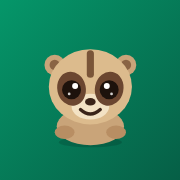
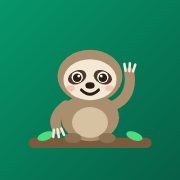
Rename to Slothly with a five-pose sloth mascot
Replace the slow loris with a three-toed sloth and give each state its own
silhouette instead of one pose with swapped faces: sitting and waving
(happy), hanging from a branch and swaying (sleepy), arms up with sparkles
(cheer), hunched hugging its belly (worried), and lying on its back with a
round belly (full). Going over the day's target now shows the relaxed
"full" pose rather than a worried face. Motion stays CSS-only and respects
reduced-motion.

App name becomes Slothly (manifest, titles, login wordmark, README and
roadmap) with the slogan "sehat pelan-pelan, tanpa drama"; the repository
and package keep their existing names. App icons are regenerated from the
new mascot.

Claude-Session: https://claude.ai/code/session_01GSTUc4y33HefHtL2NRX4h9

Changed region(s): [[0.1389, 0.25, 0.8611, 0.8333]]

diff --git a/components/Mascot.tsx b/components/Mascot.tsx
@@ -1,97 +1,221 @@
-export type MascotMood = "happy" | "neutral" | "worried" | "cheer";
+export type MascotMood = "happy" | "neutral" | "worried" | "cheer" | "full";
 
-const PATCH = "#6b4630";
-const INK = "#3a2418";
+const FUR = "#a98f6e";
+const FUR_D = "#8c7354";
+const BELLY = "#d6c2a0";
+const FACE = "#f2e8d3";
+const MASK = "#4b392c";
+const INK = "#2b1d14";
+const CLAW = "#f1e9d6";
+const BRANCH = "#7b5b3b";
+const LEAF = "#4ade80";
 
-// Placeholder mascot: a slow loris (kukang) — "pelan tapi pasti". Everything
-// is drawn here, so swapping in final artwork only means replacing this file.
-// neutral = sleepy, the loris' resting face.
-export default function Mascot({
-  mood = "happy",
-  className,
-}: {
-  mood?: MascotMood;
-  className?: string;
-}) {
-  const eye = (cx: number) => {
+// Placeholder mascot: a three-toed sloth, drawn so each state has its own
+// silhouette (sitting, hanging, arms-up, hunched, lying on its back) rather
+// than one pose with a swapped face. Swapping in final artwork only means
+// replacing this file.
+
+function Claws({ x, y, angle }: { x: number; y: number; angle: number }) {
+  return (
+    <g transform={`translate(${x} ${y}) rotate(${angle})`}>
+      <path d="M-2.2 0 L-3.2 -4 M0 0 L0 -4.6 M2.2 0 L3.2 -4" fill="none" stroke={CLAW} strokeWidth="1.5" strokeLinecap="round" />
+    </g>
+  );
+}
+
+function Arm({ d, width = 6 }: { d: string; width?: number }) {
+  return <path d={d} fill="none" stroke={FUR} strokeWidth={width} strokeLinecap="round" />;
+}
+
+function Branch({ y }: { y: number }) {
+  return (
+    <g>
+      <rect x="4" y={y} width="72" height="6" rx="3" fill={BRANCH} />
+      <ellipse cx="14" cy={y - 1} rx="5" ry="2.4" transform={`rotate(-20 14 ${y - 1})`} fill={LEAF} />
+      <ellipse cx="66" cy={y - 1} rx="5" ry="2.4" transform={`rotate(20 66 ${y - 1})`} fill={LEAF} />
+    </g>
+  );
+}
+
+function Head({ mood, x, y, tilt = 0, scale = 1 }: { mood: MascotMood; x: number; y: number; tilt?: number; scale?: number }) {
+  const closed = mood === "neutral" || mood === "full";
+  const eyes = (side: -1 | 1) => {
+    const cx = 7.5 * side;
     if (mood === "cheer") {
-      return (
-        <path
-          d={`M${cx - 4} 34.5 Q${cx} 29.5 ${cx + 4} 34.5`}
-          fill="none"
-          stroke="#fdf0d8"
-          strokeWidth="2.2"
-          strokeLinecap="round"
-        />
-      );
+      return <path key={side} d={`M${cx - 3.6} 1.6 Q${cx} -2.6 ${cx + 3.6} 1.6`} fill="none" stroke={FACE} strokeWidth="2" strokeLinecap="round" />;
     }
-    const hx = cx + (cx < 32 ? 1.8 : -1.2);
+    if (closed) {
+      return <path key={side} d={`M${cx - 3.6} 0.2 Q${cx} 3.4 ${cx + 3.6} 0.2`} fill="none" stroke={FACE} strokeWidth="1.9" strokeLinecap="round" />;
+    }
+    const r = mood === "worried" ? 2.1 : 2.5;
     return (
-      <g>
-        <circle cx={cx} cy="33.5" r="4.8" fill="#1d120c" />
-        <circle cx={hx} cy="31.6" r="1.5" fill="#fff" />
-        <circle cx={cx + (cx < 32 ? -1.2 : 1.2)} cy="35.6" r="0.7" fill="#fff" opacity="0.8" />
-        {mood === "neutral" && (
-          <path d={`M${cx - 5.2} 33.6 A5.2 5.2 0 0 1 ${cx + 5.2} 33.6 Z`} fill={PATCH} />
-        )}
+      <g key={side}>
+        <circle cx={cx} cy="0.6" r="3.3" fill="#fff8e7" />
+        <circle cx={cx} cy="0.9" r={r} fill={INK} />
+        <circle cx={cx + 0.9 * side * -1} cy="-0.1" r="0.8" fill="#fff" />
       </g>
     );
   };
 
   const mouth =
     mood === "cheer" ? (
-      <path d="M27 43 Q32 52 37 43 Z" fill="#7a2e2e" />
+      <path d="M-5.5 7.5 Q0 15 5.5 7.5 Z" fill="#7a2e2e" />
     ) : mood === "worried" ? (
-      <path d="M27.5 46 Q32 42 36.5 46" fill="none" stroke={INK} strokeWidth="1.7" strokeLinecap="round" />
+      <path d="M-4 10.5 Q0 7 4 10.5" fill="none" stroke={INK} strokeWidth="1.6" strokeLinecap="round" />
+    ) : mood === "full" ? (
+      <path d="M-6 8 Q0 14 6 8" fill="none" stroke={INK} strokeWidth="1.7" strokeLinecap="round" />
     ) : mood === "neutral" ? (
-      <path d="M29 44 H35" fill="none" stroke={INK} strokeWidth="1.7" strokeLinecap="round" />
+      <path d="M-3.5 9 Q0 11 3.5 9" fill="none" stroke={INK} strokeWidth="1.6" strokeLinecap="round" />
     ) : (
-      <path d="M27 43.5 Q32 48 37 43.5" fill="none" stroke={INK} strokeWidth="1.7" strokeLinecap="round" />
+      <path d="M-5 8 Q0 13 5 8" fill="none" stroke={INK} strokeWidth="1.7" strokeLinecap="round" />
     );
 
-  const label = { happy: "senang", neutral: "mengantuk", worried: "khawatir", cheer: "bersorak" }[mood];
-
   return (
-    <svg viewBox="0 0 64 64" className={className} role="img" aria-label={`Maskot kukang ${label}`}>
-      <ellipse cx="32" cy="60" rx="16" ry="2.6" fill="rgba(0,0,0,0.14)" />
-      <g className={mood === "cheer" ? "mascot-bounce" : undefined}>
-      <g className={`mascot-breathe${mood === "neutral" ? " mascot-slow" : ""}`}>
-      <ellipse cx="32" cy="52" rx="17" ry="9.5" fill="#c9a479" />
-      <ellipse cx="19" cy="55" rx="5" ry="3.4" fill="#b88e63" />
-      <ellipse cx="45" cy="55" rx="5" ry="3.4" fill="#b88e63" />
-      <g className="mascot-ear mascot-ear-l">
-        <circle cx="14" cy="21" r="5.2" fill="#c9a479" />
-        <circle cx="14" cy="21" r="2.6" fill="#8a6444" />
-      </g>
-      <g className="mascot-ear mascot-ear-r">
-        <circle cx="50" cy="21" r="5.2" fill="#c9a479" />
-        <circle cx="50" cy="21" r="2.6" fill="#8a6444" />
-      </g>
-      <ellipse cx="32" cy="32" rx="21" ry="19" fill="#dcbb8d" />
-      <rect x="30.2" y="13.5" width="3.6" height="14" rx="1.8" fill="#7a5538" />
-      <ellipse cx="32" cy="42" rx="9.5" ry="6.5" fill="#f3e2c4" />
-      <ellipse cx="22.5" cy="33" rx="7.2" ry="8.6" transform="rotate(-12 22.5 33)" fill={PATCH} />
-      <ellipse cx="41.5" cy="33" rx="7.2" ry="8.6" transform="rotate(12 41.5 33)" fill={PATCH} />
+    <g transform={`translate(${x} ${y}) rotate(${tilt}) scale(${scale})`}>
+      <ellipse rx="19" ry="15.5" fill={FUR} />
+      <ellipse cy="2" rx="15.5" ry="12" fill={FACE} />
+      <ellipse cx="-7.5" cy="0.6" rx="5.6" ry="3.9" transform="rotate(-25 -7.5 0.6)" fill={MASK} />
+      <ellipse cx="7.5" cy="0.6" rx="5.6" ry="3.9" transform="rotate(25 7.5 0.6)" fill={MASK} />
       <g className={mood === "happy" || mood === "worried" ? "mascot-blink" : undefined}>
-        {eye(22.5)}
-        {eye(41.5)}
+        {eyes(-1)}
+        {eyes(1)}
       </g>
       {mood === "worried" && (
         <g fill="none" stroke={INK} strokeWidth="1.8" strokeLinecap="round">
-          <path d="M16.5 25.5 L26 22.5" />
-          <path d="M47.5 25.5 L38 22.5" />
+          <path d="M-12 -6.5 L-4.5 -9" />
+          <path d="M12 -6.5 L4.5 -9" />
         </g>
       )}
-      <ellipse cx="32" cy="39.6" rx="2.7" ry="1.9" fill={INK} />
+      <ellipse cy="5.4" rx="2.7" ry="1.9" fill={INK} />
       {mouth}
-      {mood === "worried" && <path className="mascot-drop" d="M53 29 Q56 34 53 37 Q50 34 53 29 Z" fill="#7dd3fc" />}
-      </g>
-      {mood === "neutral" && (
-        <text className="mascot-zzz" x="50" y="12" fontSize="9" fontWeight="700" fill="#ffffff">
-          z
-        </text>
+      {(mood === "happy" || mood === "cheer" || mood === "full") && (
+        <g fill="#f4a9a0" opacity="0.55">
+          <ellipse cx="-11.5" cy="7" rx="2.6" ry="1.7" />
+          <ellipse cx="11.5" cy="7" rx="2.6" ry="1.7" />
+        </g>
       )}
-      </g>
+    </g>
+  );
+}
+
+function Sparkle({ x, y, s = 1, delay = 0 }: { x: number; y: number; s?: number; delay?: number }) {
+  return (
+    <path
+      className="mascot-twinkle"
+      style={{ animationDelay: `${delay}s` }}
+      transform={`translate(${x} ${y}) scale(${s})`}
+      d="M0 -4 L1.2 -1.2 L4 0 L1.2 1.2 L0 4 L-1.2 1.2 L-4 0 L-1.2 -1.2 Z"
+      fill="#fde68a"
+    />
+  );
+}
+
+export default function Mascot({ mood = "happy", className }: { mood?: MascotMood; className?: string }) {
+  const label = { happy: "senang", neutral: "mengantuk", worried: "khawatir", cheer: "bersorak", full: "kenyang" }[mood];
+
+  let pose: React.ReactNode;
+  if (mood === "neutral") {
+    // Hanging from a branch, swaying, asleep.
+    pose = (
+      <>
+        <Branch y={5} />
+        <g className="mascot-sway">
+          <Arm d="M31 41 Q22 24 27 10" />
+          <Arm d="M49 41 Q58 24 53 10" />
+          <Claws x={27} y={9} angle={-8} />
+          <Claws x={53} y={9} angle={8} />
+          <ellipse cx="33" cy="66" rx="4" ry="6.5" fill={FUR_D} />
+          <ellipse cx="47" cy="66" rx="4" ry="6.5" fill={FUR_D} />
+          <Claws x={33} y={71} angle={180} />
+          <Claws x={47} y={71} angle={180} />
+          <g className="mascot-breathe">
+            <ellipse cx="40" cy="53" rx="15" ry="13.5" fill={FUR} />
+            <ellipse cx="40" cy="56" rx="9" ry="8" fill={BELLY} />
+          </g>
+          <Head mood={mood} x={40} y={35} />
+          <text className="mascot-zzz" x="60" y="26" fontSize="9" fontWeight="700" fill="#ffffff">z</text>
+        </g>
+      </>
+    );
+  } else if (mood === "full") {
+    // Lying on its back with a round belly, a leaf on top.
+    pose = (
+      <>
+        <rect x="4" y="68" width="72" height="6" rx="3" fill={BRANCH} />
+        <ellipse cx="44" cy="58" rx="27" ry="12.5" fill={FUR} />
+        <g className="mascot-belly">
+          <ellipse cx="46" cy="52" rx="19" ry="11" fill={BELLY} />
+          <ellipse cx="52" cy="46" rx="6.5" ry="2.8" transform="rotate(-25 52 46)" fill={LEAF} />
+        </g>
+        <Arm d="M27 56 Q33 44 44 46" width={5.5} />
+        <Arm d="M60 57 Q56 46 46 47" width={5.5} />
+        <ellipse cx="68" cy="52" rx="4" ry="8" transform="rotate(-25 68 52)" fill={FUR_D} />
+        <ellipse cx="73" cy="59" rx="3.6" ry="7" transform="rotate(-50 73 59)" fill={FUR_D} />
+        <Head mood={mood} x={17} y={52} tilt={-14} scale={0.88} />
+      </>
+    );
+  } else if (mood === "cheer") {
+    pose = (
+      <>
+        <Branch y={69} />
+        <g className="mascot-bounce">
+          <Arm d="M28 49 Q12 40 14 20" />
+          <Arm d="M52 49 Q68 40 66 20" />
+          <Claws x={14} y={18} angle={-6} />
+          <Claws x={66} y={18} angle={6} />
+          <ellipse cx="40" cy="57" rx="17" ry="14" fill={FUR} />
+          <ellipse cx="40" cy="60" rx="10.5" ry="9" fill={BELLY} />
+          <ellipse cx="30" cy="69" rx="5" ry="3" fill={FUR_D} />
+          <ellipse cx="50" cy="69" rx="5" ry="3" fill={FUR_D} />
+          <Head mood={mood} x={40} y={33} />
+          <Sparkle x={6} y={34} s={1.1} />
+          <Sparkle x={74} y={36} s={0.9} delay={0.4} />
+          <Sparkle x={40} y={7} s={0.8} delay={0.8} />
+        </g>
+      </>
+    );
+  } else if (mood === "worried") {
+    // Hunched, arms wrapped around its belly, head tilted.
+    pose = (
+      <>
+        <Branch y={69} />
+        <g className="mascot-breathe">
+          <ellipse cx="40" cy="58" rx="18" ry="13.5" fill={FUR} />
+          <ellipse cx="40" cy="61" rx="11" ry="8.5" fill={BELLY} />
+          <ellipse cx="30" cy="69" rx="5" ry="3" fill={FUR_D} />
+          <ellipse cx="50" cy="69" rx="5" ry="3" fill={FUR_D} />
+          <Arm d="M25 50 Q34 64 49 58" />
+          <Arm d="M55 50 Q46 64 31 58" />
+          <Head mood={mood} x={40} y={36} tilt={-7} />
+          <path className="mascot-drop" d="M57 25 Q60.5 31 57 34 Q53.5 31 57 25 Z" fill="#7dd3fc" />
+        </g>
+      </>
+    );
+  } else {
+    // Sitting on a branch, waving.
+    pose = (
+      <>
+        <Branch y={69} />
+        <g className="mascot-breathe">
+          <ellipse cx="40" cy="57" rx="17" ry="14" fill={FUR} />
+          <ellipse cx="40" cy="60" rx="10.5" ry="9" fill={BELLY} />
+          <ellipse cx="30" cy="69" rx="5" ry="3" fill={FUR_D} />
+          <ellipse cx="50" cy="69" rx="5" ry="3" fill={FUR_D} />
+          <Arm d="M26 50 Q17 57 21 64" />
+          <Claws x={21} y={64} angle={170} />
+          <Head mood={mood} x={40} y={33} />
+          <g className="mascot-wave">
+            <Arm d="M54 50 Q65 45 63 31" />
+            <Claws x={63} y={30} angle={4} />
+          </g>
+        </g>
+      </>
+    );
+  }
+
+  return (
+    <svg viewBox="0 0 80 80" className={className} role="img" aria-label={`Maskot sloth ${label}`}>
+      {pose}
     </svg>
   );
 }

diff --git a/app/globals.css b/app/globals.css
@@ -94,3 +94,16 @@ button {
 @layer base {
   h1 { font-family: var(--font-display); letter-spacing: -0.01em; }
 }
+
+/* Sloth poses */
+@keyframes mascot-sway { 0%, 100% { transform: rotate(-3.5deg); } 50% { transform: rotate(3.5deg); } }
+@keyframes mascot-wave { 0%, 55%, 100% { transform: rotate(0); } 65% { transform: rotate(-14deg); } 75% { transform: rotate(8deg); } 85% { transform: rotate(-12deg); } 95% { transform: rotate(0); } }
+@keyframes mascot-twinkle { 0%, 100% { opacity: 0.25; transform: scale(0.7); } 50% { opacity: 1; transform: scale(1.15); } }
+@keyframes mascot-belly { 0%, 100% { transform: scale(1); } 50% { transform: scale(1.04); } }
+.mascot-sway { transform-box: view-box; transform-origin: 40px 8px; animation: mascot-sway 4.2s ease-in-out infinite; }
+.mascot-wave { transform-box: view-box; transform-origin: 54px 50px; animation: mascot-wave 5s ease-in-out infinite; }
+.mascot-twinkle { transform-box: fill-box; transform-origin: center; animation: mascot-twinkle 1.8s ease-in-out infinite; }
+.mascot-belly { transform-box: view-box; transform-origin: 46px 60px; animation: mascot-belly 3.6s ease-in-out infinite; }
+@media (prefers-reduced-motion: reduce) {
+  .mascot-sway, .mascot-wave, .mascot-twinkle, .mascot-belly { animation: none; }
+}

diff --git a/app/login/page.tsx b/app/login/page.tsx
@@ -65,9 +65,9 @@ function LoginScreen() {
     <div className="flex min-h-screen flex-col" style={{ background: skyBackground(sky) }}>
       <div className="relative isolate flex flex-1 flex-col items-center justify-end overflow-hidden px-6 pb-10 pt-16 text-white">
         <SkyBackdrop sky={sky} />
-        <Mascot mood="happy" className="mb-3 h-24 w-24" />
-        <h1 className="text-4xl font-semibold">menuju kurus</h1>
-        <p className="font-display mt-1 text-lg font-medium text-white/90">pelan tapi pasti</p>
+        <Mascot mood="happy" className="mb-2 h-32 w-32" />
+        <h1 className="text-5xl font-semibold">Slothly</h1>
+        <p className="font-display mt-1 text-lg font-medium text-white/90">sehat pelan-pelan, tanpa drama</p>
         <p className="mt-1 text-sm text-white/80">Kalori, berat, dan keputusan makan harian</p>
       </div>
 

diff --git a/app/page.tsx b/app/page.tsx
@@ -224,7 +224,7 @@ export default function DashboardPage() {
   const greeting =
     hour < 5 ? "Selamat malam" : hour < 11 ? "Selamat pagi" : hour < 15 ? "Selamat siang" : hour < 19 ? "Selamat sore" : "Selamat malam";
   const mood: MascotMood = over
-    ? "worried"
+    ? "full"
     : summary.foodLogStatus === "complete" && onTrack
       ? "cheer"
       : summary.foodLogStatus === "empty"
@@ -256,7 +256,7 @@ export default function DashboardPage() {
               {greeting}
               {data.userName ? `, ${data.userName}` : ""}
             </p>
-            <h1 className="text-xl font-bold">{statusLine}</h1>
+            <h1 className="text-xl font-semibold">{statusLine}</h1>
           </div>
           <div className="shrink-0 rounded-full bg-white/15 px-3 py-1 text-sm font-medium">
             🔥 {streak} hari

diff --git a/app/account/set-pin/page.tsx b/app/account/set-pin/page.tsx
@@ -39,7 +39,7 @@ export default function SetPinPage() {
     <div className="flex min-h-screen flex-col" style={{ background: skyBackground(sky) }}>
       <div className="relative isolate flex flex-1 flex-col items-center justify-end overflow-hidden px-6 pb-10 pt-16 text-white">
         <SkyBackdrop sky={sky} />
-        <Mascot mood="cheer" className="mb-3 h-24 w-24" />
+        <Mascot mood="cheer" className="mb-2 h-32 w-32" />
         <h1 className="text-2xl font-bold">Buat PIN</h1>
         <p className="mt-1 text-sm text-white/80">
           Buat masuk cepat tiap hari, tanpa kode undangan lagi

diff --git a/components/CalorieRing.tsx b/components/CalorieRing.tsx
@@ -42,7 +42,7 @@ export default function CalorieRing({
         />
       </svg>
       <div className="absolute inset-0 flex flex-col items-center justify-center text-center">
-        <div className="font-display text-4xl font-bold tabular-nums leading-none">
+        <div className="font-display text-4xl font-semibold tabular-nums leading-none tracking-wide">
           {left.toLocaleString("id-ID")}
         </div>
         <div className="mt-1 text-xs text-white/80">{over ? "kcal melebihi target" : "kcal tersisa"}</div>

diff --git a/app/layout.tsx b/app/layout.tsx
@@ -19,7 +19,7 @@ const fredoka = Fredoka({
 });
 
 export const metadata: Metadata = {
-  title: "menuju kurus",
+  title: "Slothly",
   description: "Catat makan, pantau berat, dan tahu sisa kalori hari ini",
   manifest: "/manifest.json",
   icons: {
@@ -29,7 +29,7 @@ export const metadata: Metadata = {
   appleWebApp: {
     capable: true,
     statusBarStyle: "default",
-    title: "menuju kurus",
+    title: "Slothly",
   },
 };
 

diff --git a/README.md b/README.md
@@ -1,8 +1,10 @@
-# menuju kurus
+# Slothly
+
+> Sehat pelan-pelan, tanpa drama. (Nama repo masih `menuju-kurus`.)
 
 Aplikasi personal untuk calorie tracking, weight management, fitness intelligence, dan keputusan makan sehari-hari. Dibuat mobile-first dengan Next.js, Gemini + DeepSeek, Upstash Redis, dan Vercel free tier.
 
-Menuju Kurus diposisikan sebagai **personal nutrition decision assistant**: logika lokal menentukan keputusan, sedangkan AI hanya menjelaskan hasil yang sudah dihitung.
+Slothly diposisikan sebagai **personal nutrition decision assistant**: logika lokal menentukan keputusan, sedangkan AI hanya menjelaskan hasil yang sudah dihitung.
 
 ## Fitur utama
 

diff --git a/ROADMAP.md b/ROADMAP.md
@@ -1,6 +1,6 @@
-# Menuju Kurus — Product Roadmap
+# Slothly — Product Roadmap
 
-Menuju Kurus diposisikan sebagai **personal nutrition decision assistant**, bukan sekadar aplikasi penghitung kalori.
+Slothly diposisikan sebagai **personal nutrition decision assistant**, bukan sekadar aplikasi penghitung kalori.
 
 Logika utama tetap deterministic dan dapat diuji. AI hanya menjelaskan keputusan yang sudah dihitung oleh engine lokal; AI tidak menentukan target, ranking, atau aturan keselamatan.
 
